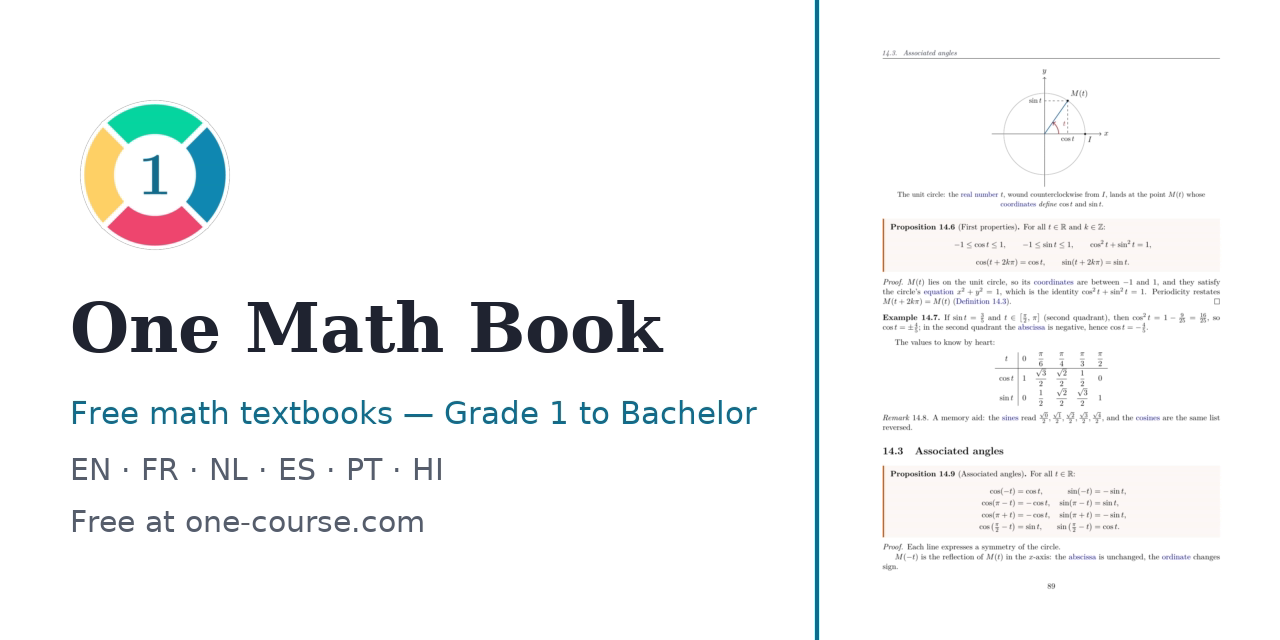
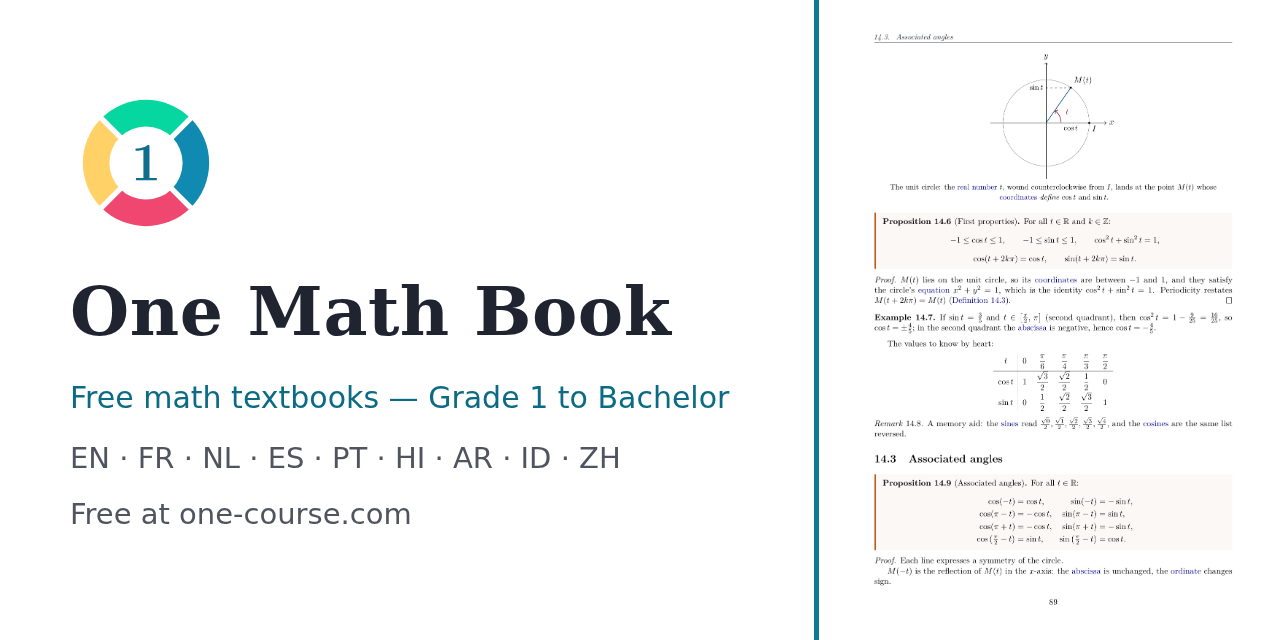
PP-172: Update all readmes

diff --git a/README.md b/README.md
@@ -1,7 +1,7 @@
 # One Math Book
 
 <p align="center">
-  <a href="https://www.one-course.com">
+  <a href="https://one-course.com">
     <img src="assets/one-course-logo.svg" alt="One Course — one-course.com" width="420">
   </a>
 </p>
@@ -10,7 +10,7 @@
   <a href="https://github.com/bvirrion/one-math-book/releases/latest"><img src="https://img.shields.io/github/v/release/bvirrion/one-math-book?label=latest%20release" alt="Latest release"></a>
   <a href="https://github.com/bvirrion/one-math-book/releases"><img src="https://img.shields.io/github/downloads/bvirrion/one-math-book/total?label=PDF%20downloads" alt="PDF downloads"></a>
   <a href="https://github.com/bvirrion/one-math-book/actions/workflows/release.yml"><img src="https://img.shields.io/github/actions/workflow/status/bvirrion/one-math-book/release.yml?label=build" alt="Build status"></a>
-  <a href="https://www.one-course.com/books"><img src="https://img.shields.io/badge/read%20online-one--course.com-1f6feb" alt="Read online"></a>
+  <a href="https://one-course.com/books"><img src="https://img.shields.io/badge/read%20online-one--course.com-1f6feb" alt="Read online"></a>
 </p>
 
 *The One Math Book to Rule Them All.*
@@ -18,9 +18,13 @@
 > **One Math Book** is part of the **One Course** project — one coherent
 > course covering each subject from kindergarten to the end of the
 > bachelor's degree. Discover the whole project at
-> **[www.one-course.com](https://www.one-course.com)**, and see the siblings
+> **[one-course.com](https://one-course.com)**, and see the siblings
 > [One Physics Book](https://github.com/bvirrion/one-physics-book),
-> [One Biology Book](https://github.com/bvirrion/one-biology-book) and
+> [One Chemistry Book](https://github.com/bvirrion/one-chemistry-book),
+> [One Biology Book](https://github.com/bvirrion/one-biology-book),
+> [One Earth and Space Sciences Book](https://github.com/bvirrion/one-earth-and-space-sciences-book),
+> [One Computer Science Book](https://github.com/bvirrion/one-computer-science-book),
+> [One Economics Book](https://github.com/bvirrion/one-economics-book) and
 > [One Quant Book](https://github.com/bvirrion/one-quant-book).
 
 A series of five **free mathematics textbooks** forming a single coherent
@@ -57,11 +61,11 @@ solution.
 
 | Book | Read online | Download PDF |
 |------|-------------|--------------|
-| **1. Primary & Middle School** (Grades 1–9) | [EN](https://www.one-course.com/books/math/1/en) · [ES](https://www.one-course.com/books/math/1/es) · [FR](https://www.one-course.com/books/math/1/fr) · [HI](https://www.one-course.com/books/math/1/hi) · [AR](https://www.one-course.com/books/math/1/ar) · [ID](https://www.one-course.com/books/math/1/id) · [NL](https://www.one-course.com/books/math/1/nl) · [PT](https://www.one-course.com/books/math/1/pt) | [EN](https://github.com/bvirrion/one-math-book/releases/latest/download/one_math_book_1_primary_middle_school.pdf) · [ES](https://github.com/bvirrion/one-math-book/releases/latest/download/one_math_book_1_primary_middle_school_es.pdf) · [FR](https://github.com/bvirrion/one-math-book/releases/latest/download/one_math_book_1_primary_middle_school_fr.pdf) · [HI](https://github.com/bvirrion/one-math-book/releases/latest/download/one_math_book_1_primary_middle_school_hi.pdf) · [AR](https://github.com/bvirrion/one-math-book/releases/latest/download/one_math_book_1_primary_middle_school_ar.pdf) · [ID](https://github.com/bvirrion/one-math-book/releases/latest/download/one_math_book_1_primary_middle_school_id.pdf) · [NL](https://github.com/bvirrion/one-math-book/releases/latest/download/one_math_book_1_primary_middle_school_nl.pdf) · [PT](https://github.com/bvirrion/one-math-book/releases/latest/download/one_math_book_1_primary_middle_school_pt.pdf) · [ZH](https://github.com/bvirrion/one-math-book/releases/latest/download/one_math_book_1_primary_middle_school_zh.pdf) |
-| **2. High School** (Grades 10–12) | [EN](https://www.one-course.com/books/math/2/en) · [ES](https://www.one-course.com/books/math/2/es) · [FR](https://www.one-course.com/books/math/2/fr) · [HI](https://www.one-course.com/books/math/2/hi) · [AR](https://www.one-course.com/books/math/2/ar) · [ID](https://www.one-course.com/books/math/2/id) · [NL](https://www.one-course.com/books/math/2/nl) · [PT](https://www.one-course.com/books/math/2/pt) | [EN](https://github.com/bvirrion/one-math-book/releases/latest/download/one_math_book_2_high_school.pdf) · [ES](https://github.com/bvirrion/one-math-book/releases/latest/download/one_math_book_2_high_school_es.pdf) · [FR](https://github.com/bvirrion/one-math-book/releases/latest/download/one_math_book_2_high_school_fr.pdf) · [HI](https://github.com/bvirrion/one-math-book/releases/latest/download/one_math_book_2_high_school_hi.pdf) · [AR](https://github.com/bvirrion/one-math-book/releases/latest/download/one_math_book_2_high_school_ar.pdf) · [ID](https://github.com/bvirrion/one-math-book/releases/latest/download/one_math_book_2_high_school_id.pdf) · [NL](https://github.com/bvirrion/one-math-book/releases/latest/download/one_math_book_2_high_school_nl.pdf) · [PT](https://github.com/bvirrion/one-math-book/releases/latest/download/one_math_book_2_high_school_pt.pdf) · [ZH](https://github.com/bvirrion/one-math-book/releases/latest/download/one_math_book_2_high_school_zh.pdf) |
-| **3. University — Year 1** | [EN](https://www.one-course.com/books/math/3/en) · [ES](https://www.one-course.com/books/math/3/es) · [FR](https://www.one-course.com/books/math/3/fr) · [HI](https://www.one-course.com/books/math/3/hi) · [AR](https://www.one-course.com/books/math/3/ar) · [ID](https://www.one-course.com/books/math/3/id) · [NL](https://www.one-course.com/books/math/3/nl) · [PT](https://www.one-course.com/books/math/3/pt) | [EN](https://github.com/bvirrion/one-math-book/releases/latest/download/one_math_book_3_university_year_1.pdf) · [ES](https://github.com/bvirrion/one-math-book/releases/latest/download/one_math_book_3_university_year_1_es.pdf) · [FR](https://github.com/bvirrion/one-math-book/releases/latest/download/one_math_book_3_university_year_1_fr.pdf) · [HI](https://github.com/bvirrion/one-math-book/releases/latest/download/one_math_book_3_university_year_1_hi.pdf) · [AR](https://github.com/bvirrion/one-math-book/releases/latest/download/one_math_book_3_university_year_1_ar.pdf) · [ID](https://github.com/bvirrion/one-math-book/releases/latest/download/one_math_book_3_university_year_1_id.pdf) · [NL](https://github.com/bvirrion/one-math-book/releases/latest/download/one_math_book_3_university_year_1_nl.pdf) · [PT](https://github.com/bvirrion/one-math-book/releases/latest/download/one_math_book_3_university_year_1_pt.pdf) · [ZH](https://github.com/bvirrion/one-math-book/releases/latest/download/one_math_book_3_university_year_1_zh.pdf) |
-| **4. University — Year 2** | [EN](https://www.one-course.com/books/math/4/en) · [ES](https://www.one-course.com/books/math/4/es) · [FR](https://www.one-course.com/books/math/4/fr) · [HI](https://www.one-course.com/books/math/4/hi) · [AR](https://www.one-course.com/books/math/4/ar) · [ID](https://www.one-course.com/books/math/4/id) · [NL](https://www.one-course.com/books/math/4/nl) · [PT](https://www.one-course.com/books/math/4/pt) | [EN](https://github.com/bvirrion/one-math-book/releases/latest/download/one_math_book_4_university_year_2.pdf) · [ES](https://github.com/bvirrion/one-math-book/releases/latest/download/one_math_book_4_university_year_2_es.pdf) · [FR](https://github.com/bvirrion/one-math-book/releases/latest/download/one_math_book_4_university_year_2_fr.pdf) · [HI](https://github.com/bvirrion/one-math-book/releases/latest/download/one_math_book_4_university_year_2_hi.pdf) · [AR](https://github.com/bvirrion/one-math-book/releases/latest/download/one_math_book_4_university_year_2_ar.pdf) · [ID](https://github.com/bvirrion/one-math-book/releases/latest/download/one_math_book_4_university_year_2_id.pdf) · [NL](https://github.com/bvirrion/one-math-book/releases/latest/download/one_math_book_4_university_year_2_nl.pdf) · [PT](https://github.com/bvirrion/one-math-book/releases/latest/download/one_math_book_4_university_year_2_pt.pdf) · [ZH](https://github.com/bvirrion/one-math-book/releases/latest/download/one_math_book_4_university_year_2_zh.pdf) |
-| **5. University — Year 3** | [EN](https://www.one-course.com/books/math/5/en) · [ES](https://www.one-course.com/books/math/5/es) · [FR](https://www.one-course.com/books/math/5/fr) · [HI](https://www.one-course.com/books/math/5/hi) · [AR](https://www.one-course.com/books/math/5/ar) · [ID](https://www.one-course.com/books/math/5/id) · [NL](https://www.one-course.com/books/math/5/nl) · [PT](https://www.one-course.com/books/math/5/pt) | [EN](https://github.com/bvirrion/one-math-book/releases/latest/download/one_math_book_5_university_year_3.pdf) · [ES](https://github.com/bvirrion/one-math-book/releases/latest/download/one_math_book_5_university_year_3_es.pdf) · [FR](https://github.com/bvirrion/one-math-book/releases/latest/download/one_math_book_5_university_year_3_fr.pdf) · [HI](https://github.com/bvirrion/one-math-book/releases/latest/download/one_math_book_5_university_year_3_hi.pdf) · [AR](https://github.com/bvirrion/one-math-book/releases/latest/download/one_math_book_5_university_year_3_ar.pdf) · [ID](https://github.com/bvirrion/one-math-book/releases/latest/download/one_math_book_5_university_year_3_id.pdf) · [NL](https://github.com/bvirrion/one-math-book/releases/latest/download/one_math_book_5_university_year_3_nl.pdf) · [PT](https://github.com/bvirrion/one-math-book/releases/latest/download/one_math_book_5_university_year_3_pt.pdf) · [ZH](https://github.com/bvirrion/one-math-book/releases/latest/download/one_math_book_5_university_year_3_zh.pdf) |
+| **1. Primary & Middle School** (Grades 1–9) | [EN](https://one-course.com/books/math/1/en) · [ES](https://one-course.com/books/math/1/es) · [FR](https://one-course.com/books/math/1/fr) · [HI](https://one-course.com/books/math/1/hi) · [AR](https://one-course.com/books/math/1/ar) · [ID](https://one-course.com/books/math/1/id) · [NL](https://one-course.com/books/math/1/nl) · [PT](https://one-course.com/books/math/1/pt) | [EN](https://github.com/bvirrion/one-math-book/releases/latest/download/one_math_book_1_primary_middle_school.pdf) · [ES](https://github.com/bvirrion/one-math-book/releases/latest/download/one_math_book_1_primary_middle_school_es.pdf) · [FR](https://github.com/bvirrion/one-math-book/releases/latest/download/one_math_book_1_primary_middle_school_fr.pdf) · [HI](https://github.com/bvirrion/one-math-book/releases/latest/download/one_math_book_1_primary_middle_school_hi.pdf) · [AR](https://github.com/bvirrion/one-math-book/releases/latest/download/one_math_book_1_primary_middle_school_ar.pdf) · [ID](https://github.com/bvirrion/one-math-book/releases/latest/download/one_math_book_1_primary_middle_school_id.pdf) · [NL](https://github.com/bvirrion/one-math-book/releases/latest/download/one_math_book_1_primary_middle_school_nl.pdf) · [PT](https://github.com/bvirrion/one-math-book/releases/latest/download/one_math_book_1_primary_middle_school_pt.pdf) · [ZH](https://github.com/bvirrion/one-math-book/releases/latest/download/one_math_book_1_primary_middle_school_zh.pdf) |
+| **2. High School** (Grades 10–12) | [EN](https://one-course.com/books/math/2/en) · [ES](https://one-course.com/books/math/2/es) · [FR](https://one-course.com/books/math/2/fr) · [HI](https://one-course.com/books/math/2/hi) · [AR](https://one-course.com/books/math/2/ar) · [ID](https://one-course.com/books/math/2/id) · [NL](https://one-course.com/books/math/2/nl) · [PT](https://one-course.com/books/math/2/pt) | [EN](https://github.com/bvirrion/one-math-book/releases/latest/download/one_math_book_2_high_school.pdf) · [ES](https://github.com/bvirrion/one-math-book/releases/latest/download/one_math_book_2_high_school_es.pdf) · [FR](https://github.com/bvirrion/one-math-book/releases/latest/download/one_math_book_2_high_school_fr.pdf) · [HI](https://github.com/bvirrion/one-math-book/releases/latest/download/one_math_book_2_high_school_hi.pdf) · [AR](https://github.com/bvirrion/one-math-book/releases/latest/download/one_math_book_2_high_school_ar.pdf) · [ID](https://github.com/bvirrion/one-math-book/releases/latest/download/one_math_book_2_high_school_id.pdf) · [NL](https://github.com/bvirrion/one-math-book/releases/latest/download/one_math_book_2_high_school_nl.pdf) · [PT](https://github.com/bvirrion/one-math-book/releases/latest/download/one_math_book_2_high_school_pt.pdf) · [ZH](https://github.com/bvirrion/one-math-book/releases/latest/download/one_math_book_2_high_school_zh.pdf) |
+| **3. University — Year 1** | [EN](https://one-course.com/books/math/3/en) · [ES](https://one-course.com/books/math/3/es) · [FR](https://one-course.com/books/math/3/fr) · [HI](https://one-course.com/books/math/3/hi) · [AR](https://one-course.com/books/math/3/ar) · [ID](https://one-course.com/books/math/3/id) · [NL](https://one-course.com/books/math/3/nl) · [PT](https://one-course.com/books/math/3/pt) | [EN](https://github.com/bvirrion/one-math-book/releases/latest/download/one_math_book_3_university_year_1.pdf) · [ES](https://github.com/bvirrion/one-math-book/releases/latest/download/one_math_book_3_university_year_1_es.pdf) · [FR](https://github.com/bvirrion/one-math-book/releases/latest/download/one_math_book_3_university_year_1_fr.pdf) · [HI](https://github.com/bvirrion/one-math-book/releases/latest/download/one_math_book_3_university_year_1_hi.pdf) · [AR](https://github.com/bvirrion/one-math-book/releases/latest/download/one_math_book_3_university_year_1_ar.pdf) · [ID](https://github.com/bvirrion/one-math-book/releases/latest/download/one_math_book_3_university_year_1_id.pdf) · [NL](https://github.com/bvirrion/one-math-book/releases/latest/download/one_math_book_3_university_year_1_nl.pdf) · [PT](https://github.com/bvirrion/one-math-book/releases/latest/download/one_math_book_3_university_year_1_pt.pdf) · [ZH](https://github.com/bvirrion/one-math-book/releases/latest/download/one_math_book_3_university_year_1_zh.pdf) |
+| **4. University — Year 2** | [EN](https://one-course.com/books/math/4/en) · [ES](https://one-course.com/books/math/4/es) · [FR](https://one-course.com/books/math/4/fr) · [HI](https://one-course.com/books/math/4/hi) · [AR](https://one-course.com/books/math/4/ar) · [ID](https://one-course.com/books/math/4/id) · [NL](https://one-course.com/books/math/4/nl) · [PT](https://one-course.com/books/math/4/pt) | [EN](https://github.com/bvirrion/one-math-book/releases/latest/download/one_math_book_4_university_year_2.pdf) · [ES](https://github.com/bvirrion/one-math-book/releases/latest/download/one_math_book_4_university_year_2_es.pdf) · [FR](https://github.com/bvirrion/one-math-book/releases/latest/download/one_math_book_4_university_year_2_fr.pdf) · [HI](https://github.com/bvirrion/one-math-book/releases/latest/download/one_math_book_4_university_year_2_hi.pdf) · [AR](https://github.com/bvirrion/one-math-book/releases/latest/download/one_math_book_4_university_year_2_ar.pdf) · [ID](https://github.com/bvirrion/one-math-book/releases/latest/download/one_math_book_4_university_year_2_id.pdf) · [NL](https://github.com/bvirrion/one-math-book/releases/latest/download/one_math_book_4_university_year_2_nl.pdf) · [PT](https://github.com/bvirrion/one-math-book/releases/latest/download/one_math_book_4_university_year_2_pt.pdf) · [ZH](https://github.com/bvirrion/one-math-book/releases/latest/download/one_math_book_4_university_year_2_zh.pdf) |
+| **5. University — Year 3** | [EN](https://one-course.com/books/math/5/en) · [ES](https://one-course.com/books/math/5/es) · [FR](https://one-course.com/books/math/5/fr) · [HI](https://one-course.com/books/math/5/hi) · [AR](https://one-course.com/books/math/5/ar) · [ID](https://one-course.com/books/math/5/id) · [NL](https://one-course.com/books/math/5/nl) · [PT](https://one-course.com/books/math/5/pt) | [EN](https://github.com/bvirrion/one-math-book/releases/latest/download/one_math_book_5_university_year_3.pdf) · [ES](https://github.com/bvirrion/one-math-book/releases/latest/download/one_math_book_5_university_year_3_es.pdf) · [FR](https://github.com/bvirrion/one-math-book/releases/latest/download/one_math_book_5_university_year_3_fr.pdf) · [HI](https://github.com/bvirrion/one-math-book/releases/latest/download/one_math_book_5_university_year_3_hi.pdf) · [AR](https://github.com/bvirrion/one-math-book/releases/latest/download/one_math_book_5_university_year_3_ar.pdf) · [ID](https://github.com/bvirrion/one-math-book/releases/latest/download/one_math_book_5_university_year_3_id.pdf) · [NL](https://github.com/bvirrion/one-math-book/releases/latest/download/one_math_book_5_university_year_3_nl.pdf) · [PT](https://github.com/bvirrion/one-math-book/releases/latest/download/one_math_book_5_university_year_3_pt.pdf) · [ZH](https://github.com/bvirrion/one-math-book/releases/latest/download/one_math_book_5_university_year_3_zh.pdf) |
 
 The eight complete editions of every book can be read online, chapter by
 chapter (the Chinese edition is PDF only for now), and the PDF links always point at the newest release. Spotted a
@@ -85,14 +89,15 @@ fixes usually ship within days.
 | High School | Grade 10 (age 15–16) | First year of upper secondary school | ✅ 9 chapters, exercises + solutions |
 | High School | Grade 11 (age 16–17) | Penultimate year of secondary school, advanced track | ✅ 10 chapters, exercises + solutions |
 | High School | Grade 12 (age 17–18) | Final year of secondary school, advanced track | ✅ 16 chapters, exercises + solutions |
-| University — Year 1 | Bachelor Year 1 (age 18–19) | First post-secondary year (old French MPSI program) | ✅ 25 chapters, exercises + solutions |
-| University — Year 2 | Bachelor Year 2 (age 19–20) | Second post-secondary year (French MP* program) | ✅ 23 chapters, exercises + solutions |
-| University — Year 3 | Bachelor Year 3 (age 20–21) | Third post-secondary year (French math L3 program) | ✅ 23 chapters, exercises + weekend problems + solutions |
+| University — Year 1 | Bachelor Year 1 (age 18–19) | First year of university | ✅ 25 chapters, exercises + solutions |
+| University — Year 2 | Bachelor Year 2 (age 19–20) | Second year of university | ✅ 23 chapters, exercises + solutions |
+| University — Year 3 | Bachelor Year 3 (age 20–21) | Third year of university | ✅ 23 chapters, exercises + weekend problems + solutions |
 | Other | Kindergarten | | 🚧 planned |
 
 **Translations** — all five books exist as complete editions (same
 chapter sets, same labels, same figures) in **French, Dutch, Spanish,
-Portuguese, Hindi, Arabic and Indonesian**, alongside the canonical English.
+Portuguese, Hindi, Arabic and Indonesian**, alongside the canonical English,
+and in a **Simplified Chinese** edition (PDF only for now).
 
 The lower the grade, the younger the reader it is written for: earlier
 parts use more figures, more detailed worked steps, and gentler
